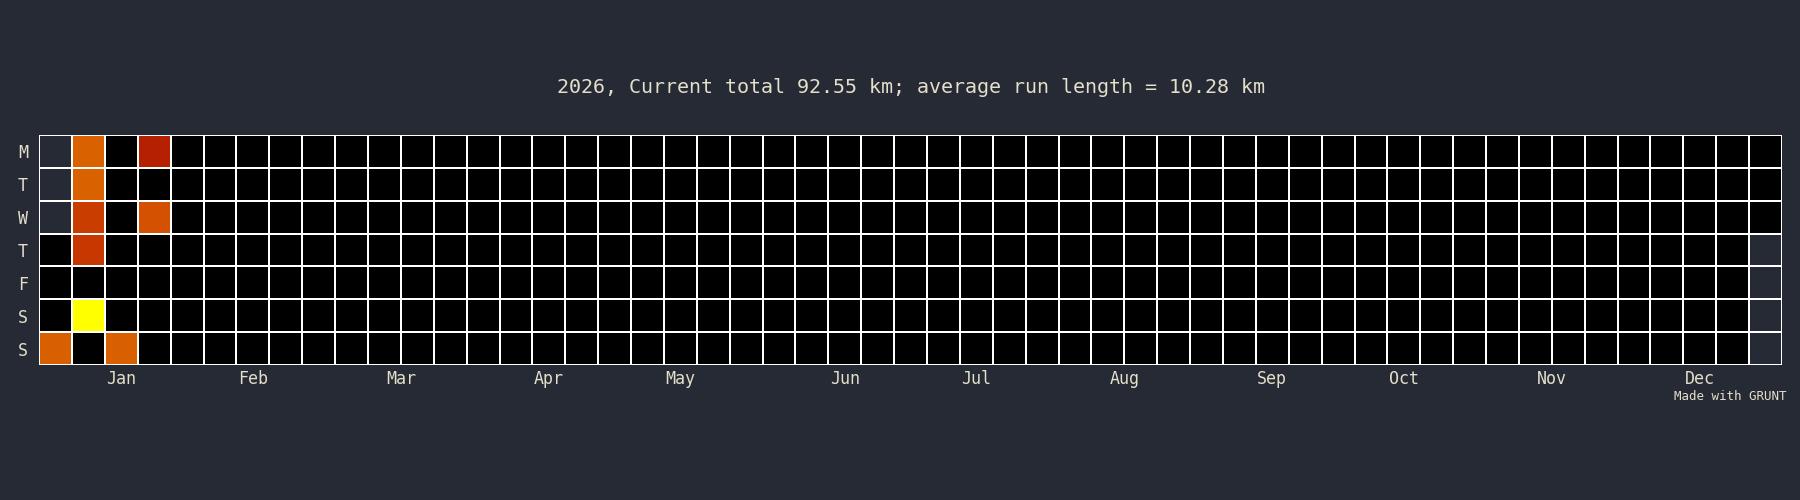
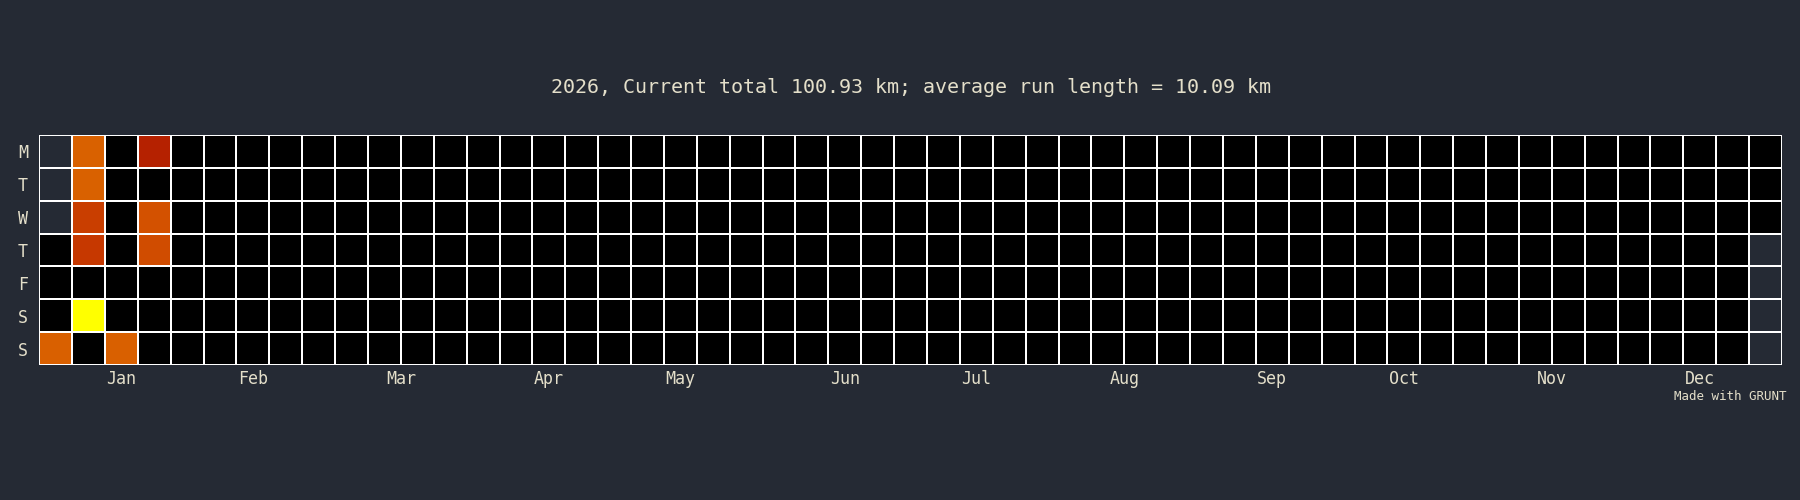
update with hist

Changed region(s): [[0.3111, 0.15, 0.7156, 0.21], [0.0622, 0.45, 0.0933, 0.54]]

diff --git a/_pages/running.html b/_pages/running.html
@@ -9,12 +9,16 @@ author_profile: true
 
 
 <style>
-p.double {border-style: double; border-color: yellow; border-width: 3px; width:30%; padding: 2px}
+p.double {border-style: double; border-color: yellow; border-width: 3px; width:100%; padding: 2px}
 .center {
-  display: block;
-  margin-left: auto;
-  margin-right: auto;
+   text-align: center;
 }
+
+div.container {
+  display:inline-block;
+
+}
+
 </style>
 
 This is where I post all the races I do! It goes from an easy 5k to 100k+. I have (more or less painful) memories from all of them :D 
@@ -25,12 +29,40 @@ This is where I post all the races I do! It goes from an easy 5k to 100k+. I hav
 
 <br>
 
-<img src="../images/running/stats/Compare_distance_year.png" alt="Year - to - year running distance comparison" class="center" width="500">
-<p class="double"> &nbsp;Races (sub21k): 6 </p>
-<p class="double"> &nbsp;Races (Half Marathon to 30k): 14</p>
-<p class="double"> &nbsp;Marathons: 7</p>
-<p class="double"> &nbsp;Ultra-Marathons (sub 100k): 10</p>
-<p class="double"> &nbsp;Ultra-Marathons (over 100k): 1</p>
+<div class="center">
+    <div class="container">
+      <img src="../images/running/stats/Compare_distance_year.png" width="400"/>
+    </div>
+    <div class="container">
+      <img src="../images/running/stats/runtype_2026.png" width="360"/>
+    </div>
+</div>
+
+<br>
+
+<!-- <img src="../images/running/stats/Compare_distance_year.png" alt="Year - to - year running distance comparison" class="center" width="500"> -->
+
+<div class="center">
+    <div class="container">
+      <p class="double"> &nbsp;Races (sub21k): 6 </p>
+    </div>
+
+    <div class="container">
+      <p class="double"> &nbsp;Marathons: 7</p> 
+    </div>
+    <div class="container">
+      <p class="double"> &nbsp;Races (Half Marathon to 30k): 14</p>
+    </div>
+</div>
+
+<div class="center">
+    <div class="container">
+      <p class="double"> &nbsp;Ultra-Marathons (sub 100k): 10</p>
+    </div>
+    <div class="container">
+      <p class="double"> &nbsp;Ultra-Marathons (over 100k): 1</p>
+    </div>
+</div>
 
 {% for post in site.runs reversed %}
   {% include archive-single-run.html %}
